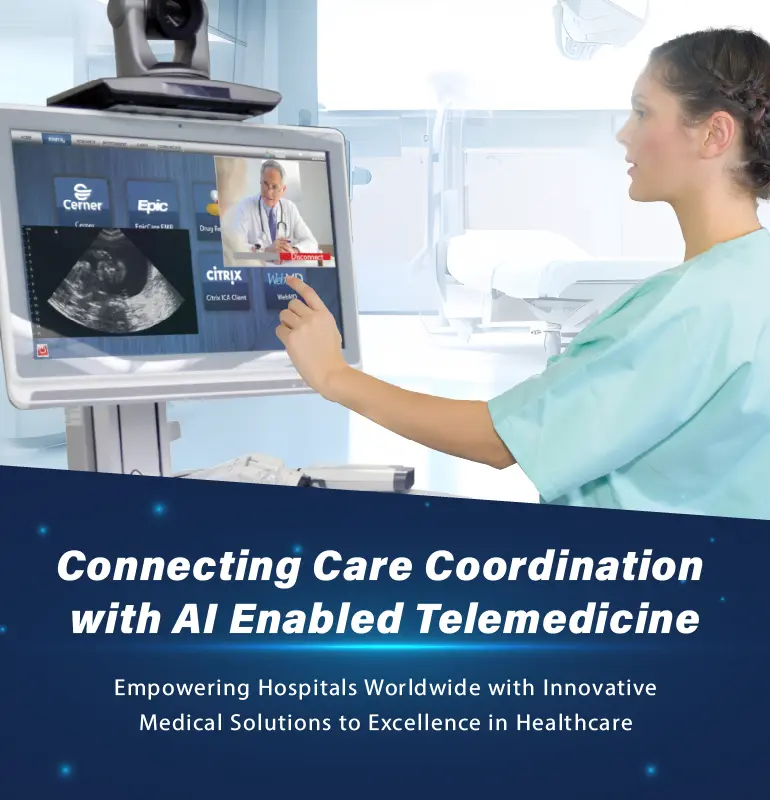
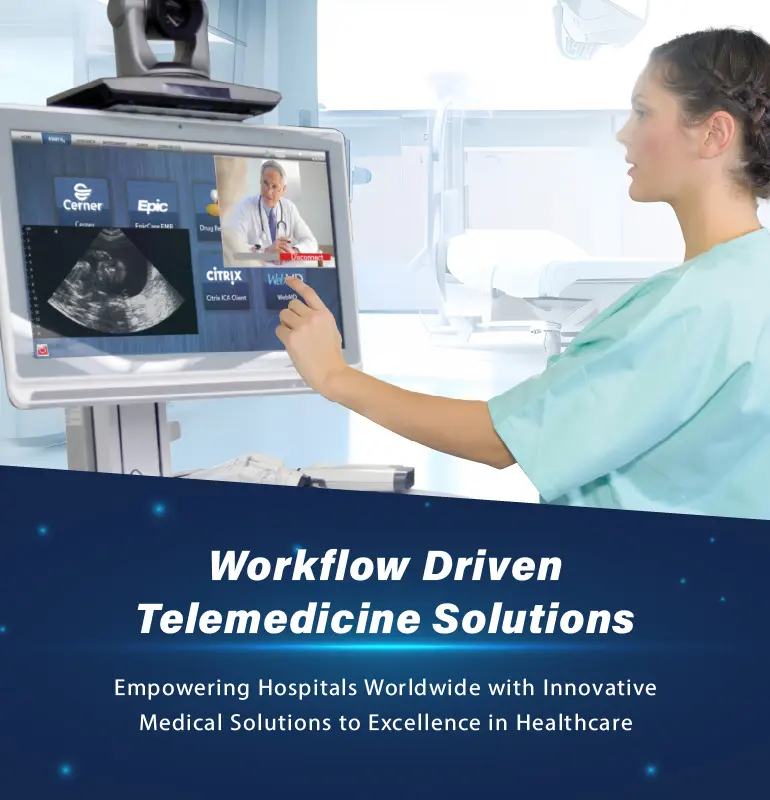
heroImgModify

diff --git a/index.html b/index.html
@@ -33,7 +33,7 @@
   <link href="https://unpkg.com/aos@2.3.1/dist/aos.css" rel="stylesheet" />
   <link rel="stylesheet" href="https://cdn.jsdelivr.net/npm/bootstrap-icons@1.11.1/font/bootstrap-icons.css" />
   <link rel="stylesheet" href="https://cdn.jsdelivr.net/npm/swiper@10/swiper-bundle.min.css" />
-  <link rel="stylesheet" href="https://medalliance.com.tw/custom/all.css" />
+  <link rel="stylesheet" href="./custom/all.css" />
 </head>
 
 <body>
@@ -47,8 +47,9 @@
   <nav id="navbarEquipments" class="navbar navbar-expand-lg  px-3  position-sticky top-0 shadow-sm"
     style="background-color: #fff;z-index: 3">
     <a class="navbar-brand" href="https://medalliance.com.tw/index.html"> <img src="./images/medalliance.svg"
+        class="navbarImg"
         alt="MedAlliance MedTech Services: Transforming healthcare with telemedicine, mobile nursing, and hospital-at-home solutions. Partnering with Taiwan's finest medical device manufacturers for excellence in patient care." /></a>
-    <button class="navbar-toggler " type="button" data-bs-toggle="collapse" data-bs-target="#navbarSupportedContent"
+    <button class="navbar-toggler" type="button" data-bs-toggle="collapse" data-bs-target="#navbarSupportedContent"
       aria-controls="navbarSupportedContent" aria-expanded="false" aria-label="Toggle navigation">
       <span class="navbar-toggler-icon"></span>
     </button>
@@ -139,7 +140,7 @@
     <div class="carousel-inner">
       <div class="carousel-item active">
         <img src="./images/index/hero/hero-md-01.webp" class="d-block w-100"
-          alt="Connecting Care Coordination with AI Enabled Telemedicine" />
+          alt="Workflow Driven Telemedicine Solutions" />
       </div>
       <div class="carousel-item">
         <img src="./images/index/hero/hero-md-02.webp" class="d-block w-100"
@@ -169,7 +170,7 @@
     <div class="carousel-inner">
       <div class="carousel-item active">
         <img src="./images/index/hero/hero-xxl-01.webp" class="d-block w-100"
-          alt="Connecting Care Coordination with AI Enabled Telemedicine" />
+          alt="Workflow Driven Telemedicine Solutions" />
       </div>
       <div class="carousel-item">
         <img src="./images/index/hero/hero-xxl-02.webp" class="d-block w-100"

diff --git a/custom/_media.scss b/custom/_media.scss
@@ -1,0 +1,29 @@
+@mixin xxl {
+    @media (min-width: 1400px) {
+        @content
+    }
+}
+
+@mixin xl {
+    @media (min-width: 1200px) {
+        @content
+    }
+}
+
+@mixin lg {
+    @media (min-width: 992px) {
+        @content
+    }
+}
+
+@mixin md {
+    @media (min-width: 768px) {
+        @content
+    }
+}
+
+@mixin sm {
+    @media (min-width: 576px) {
+        @content
+    }
+}

diff --git a/custom/all.sass b/custom/all.sass
@@ -1,5 +1,6 @@
 @import 'base'
 @import 'components'
+@import 'media'
 
 html
   scroll-padding-top: 66px //header 高度
@@ -46,6 +47,10 @@ p
   font-size: 16px
   padding: 8px
   border: 0
+
+.navbarImg
+    @include lg
+      width:250px
 
 .offcanvas.offcanvas-end
   max-width: 60%

diff --git a/custom/all.css b/custom/all.css
@@ -69,6 +69,12 @@ p {
   border: 0;
 }
 
+@media (min-width: 992px) {
+  .navbarImg {
+    width: 250px;
+  }
+}
+
 .offcanvas.offcanvas-end {
   max-width: 60%;
 }
